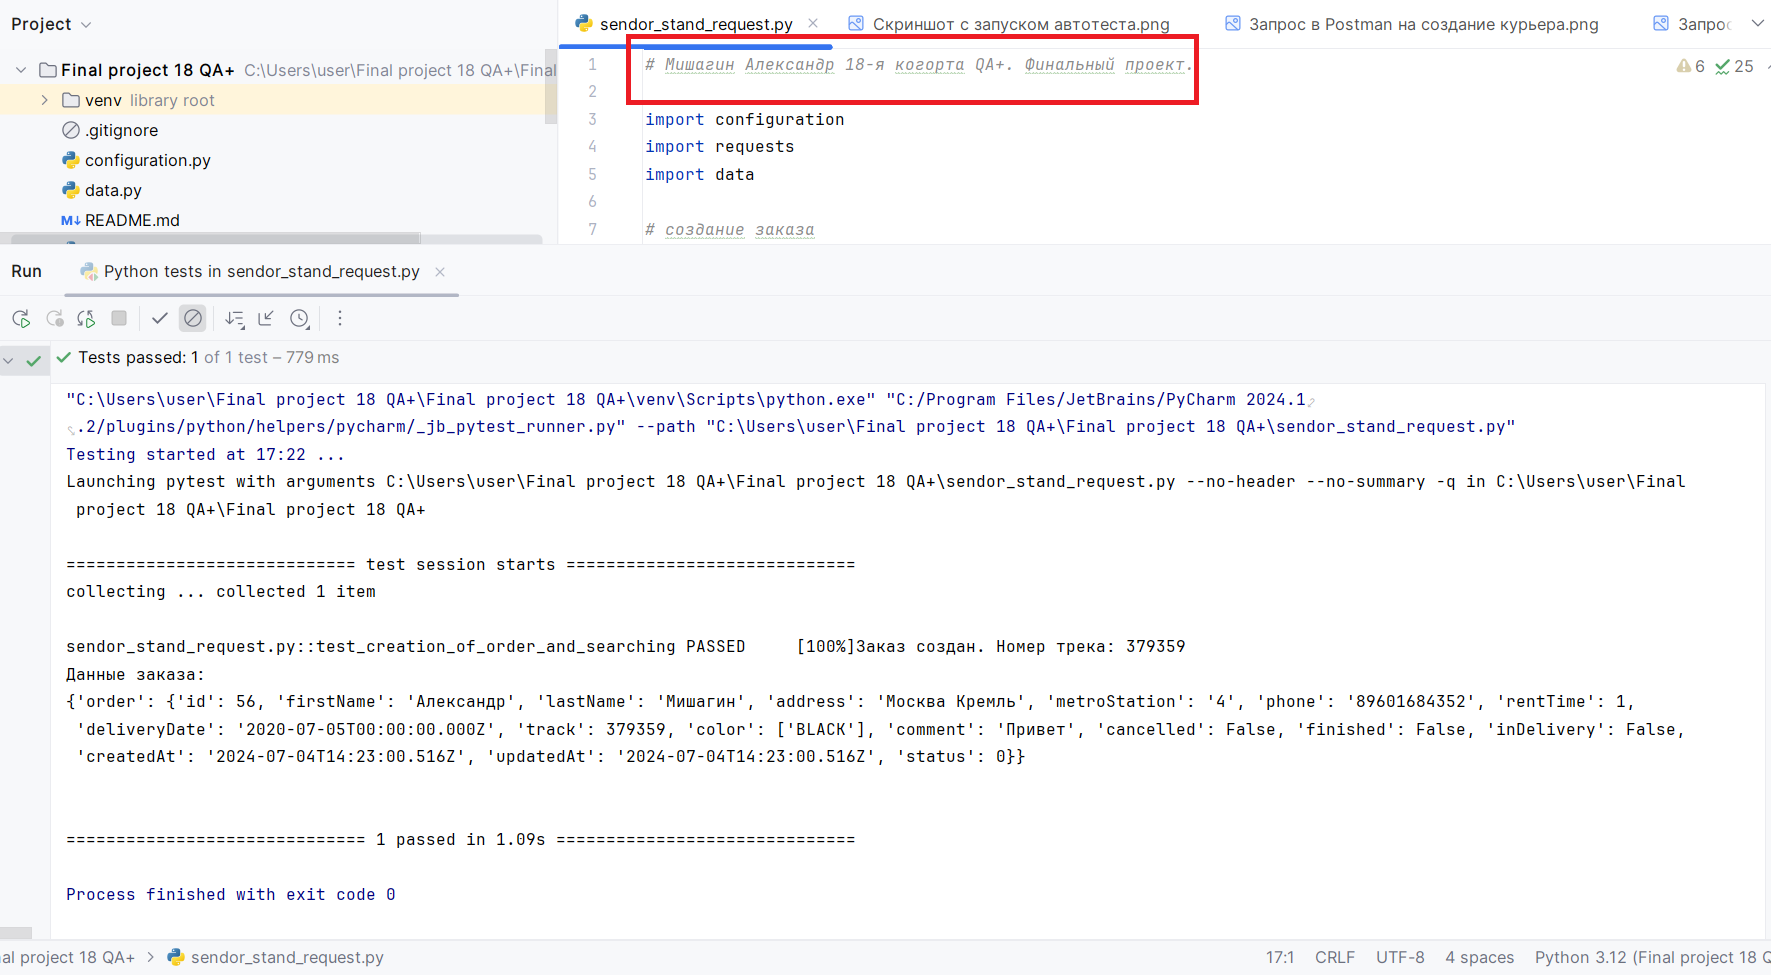
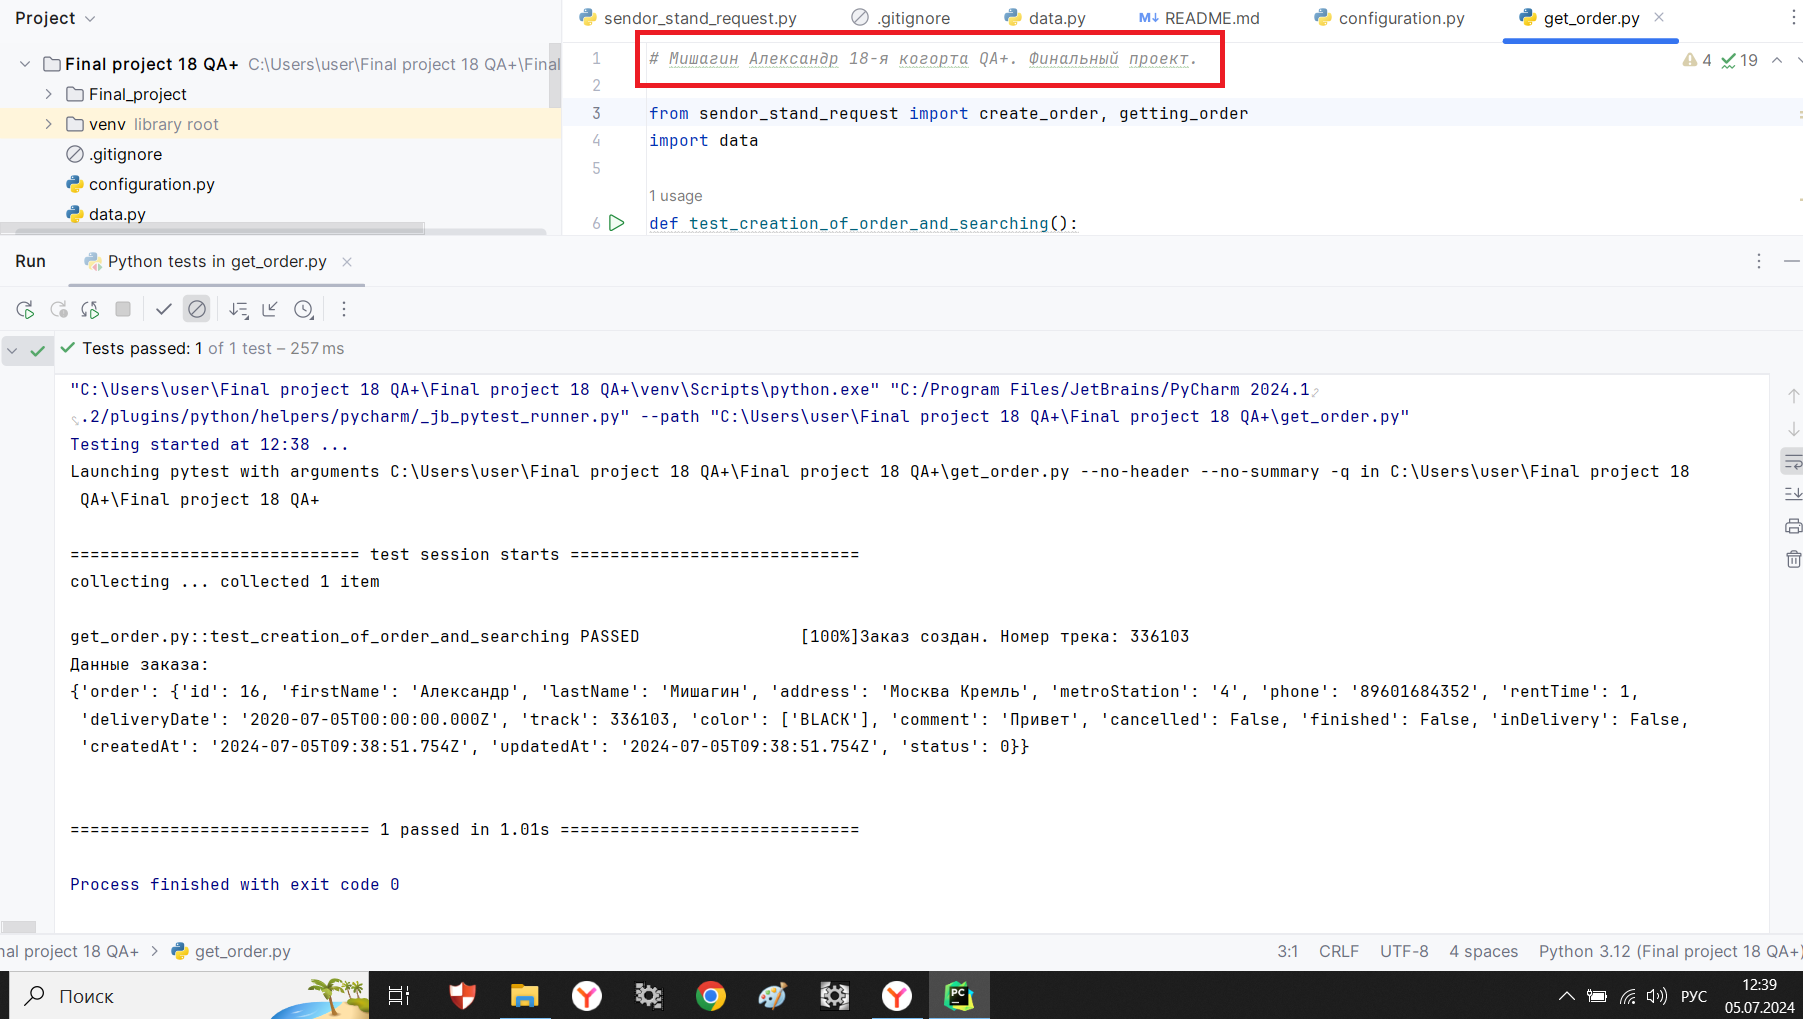
The second version

diff --git a/sendor_stand_request.py b/sendor_stand_request.py
@@ -2,7 +2,6 @@
 
 import configuration
 import requests
-import data
 
 # создание заказа
 def create_order(body):
@@ -11,22 +10,6 @@ def create_order(body):
 
 # получение заказа по трекеру
 def getting_order(track_number):
-    get_order_url = f"{configuration.URL_OF_ORDERS}/api/v1/orders/track?t={track_number}"
+    get_order_url = f"{configuration.URL_OF_ORDERS}{configuration.GET_ORDER}={track_number}"
     response = requests.get(get_order_url)
     return response
-
-# наш автотест
-def test_creation_of_order_and_searching():
-    response = create_order(data.order_body)
-
-    track_number = response.json()["track"]
-    print("Заказ создан. Номер трека:", track_number)
-
-# получение данных заказа по треку
-    order_response = getting_order(track_number)
-
-# проверка, что код ответа равен 200
-    assert order_response.status_code == 200, f"Ошибка: {order_response.status_code}"
-    order_data = order_response.json()
-    print("Данные заказа:")
-    print(order_data)

diff --git a/get_order.py b/get_order.py
@@ -1,0 +1,21 @@
+# Мишагин Александр 18-я когорта QA+. Финальный проект.
+
+from sendor_stand_request import create_order, getting_order
+import data
+
+def test_creation_of_order_and_searching():
+    response = create_order(data.order_body)
+
+    track_number = response.json()["track"]
+    print("Заказ создан. Номер трека:", track_number)
+
+# получение данных заказа по треку
+    order_response = getting_order(track_number)
+
+# проверка, что код ответа равен 200
+    assert order_response.status_code == 200, f"Ошибка: {order_response.status_code}"
+    order_data = order_response.json()
+    print("Данные заказа:")
+    print(order_data)
+
+test_creation_of_order_and_searching()

diff --git a/configuration.py b/configuration.py
@@ -1,5 +1,6 @@
 # Мишагин Александр 18-я когорта QA+. Финальный проект.
 
 # заменить URL_OF_ORDERS на действующее
-URL_OF_ORDERS = "https://5e0ab19a-32c6-453c-a6bf-83a63a8f469b.serverhub.praktikum-services.ru"
+URL_OF_ORDERS = "https://b29bb688-80ef-4c24-8a62-3390900eabb5.serverhub.praktikum-services.ru"
 CREATE_ORDER = "/api/v1/orders"
+GET_ORDER = "/api/v1/orders/track?t"

diff --git a/README.md b/README.md
@@ -1,8 +1,14 @@
-Автотесты для проверки, что по треку заказа можно получить данные о заказе в Яндекс 
-Самокат с помощью API Яндекс Самокат 
+Автотесты для проверки, что по треку заказа можно получить данные о заказе в Яндекс Самокат с 
+помощью API Яндекс Самокат 
 Автотесты были выполнены в программе PyCharm 2024.1.2 (Professional Edition)
-Для запуска тестов в файле configuration.py значение параметра "URL_SERVICE" должнго быть заменено
-на действующее
-Запуск тестов производится из файла sendor_stand_request.py
+
+- Для запуска тестов в файле configuration.py значение параметра "URL_SERVICE" должно быть заменено
+- на действующее
+- Для запуска тестов должны быть установлены пакеты pytest и requests
+- Запуск всех тестов выполянется командой pytest
+- Тест проверяет, что на запрос приходит код ответа 200 с телом в виде непустого json
+- При отправке запроса на получение заказа передается трек номер track
+- track генерируется каждый раз при прохождении тестов с помощью отдельной функции test_creation_of_order_and_searching()
+- Функция test_creation_of_order_and_searching() создает новый заказ и возвращает номер track
 
 Мишагин Александр 18-я когорта QA+. Финальный проект.
